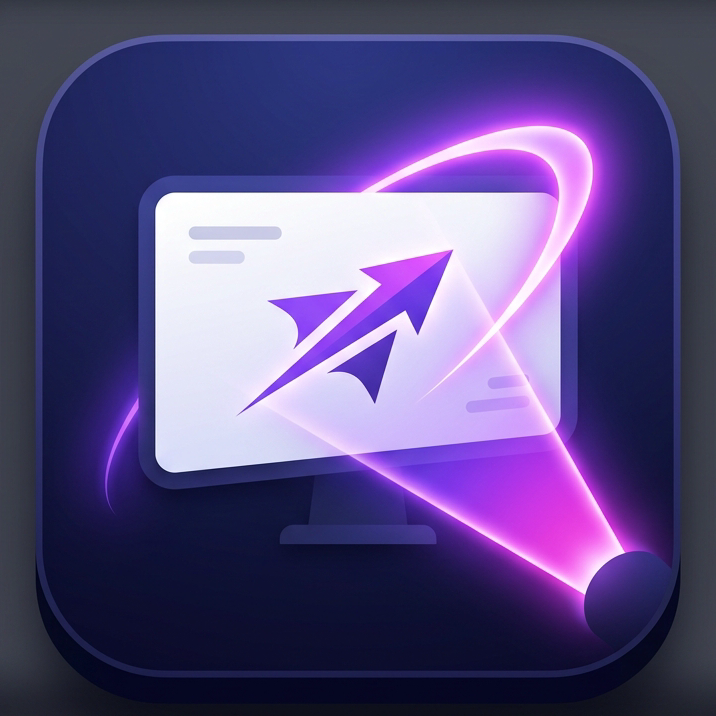
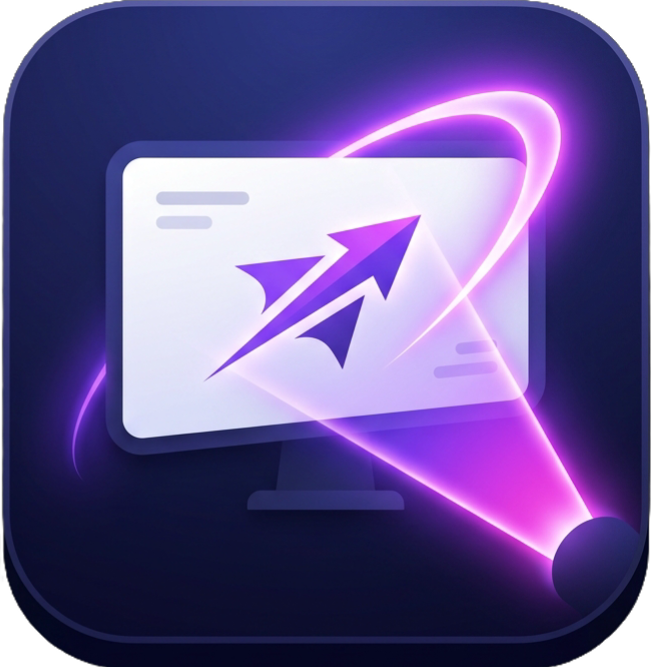
ui is improved

diff --git a/src/components/HomeScreen.tsx b/src/components/HomeScreen.tsx
@@ -154,7 +154,7 @@ export default function HomeScreen() {
       {/* Header */}
       <header className="border-b border-white/[0.06] px-8 py-4 flex items-center justify-between">
         <div className="flex items-center gap-3">
-          <img src="/icon.png" alt="ApexPresenter Logo" className="w-9 h-9 rounded-xl shadow-lg shadow-indigo-500/20" />
+          <img src="./icon.png" alt="ApexPresenter Logo" className="w-9 h-9 rounded-xl shadow-lg shadow-indigo-500/20" />
           <div>
             <h1 className="text-white font-bold text-lg leading-none">ApexPresenter</h1>
             <p className="text-white/40 text-xs mt-0.5">Remote Edition</p>
@@ -271,7 +271,7 @@ export default function HomeScreen() {
           {sessions.length === 0 && (
             <div className="mb-8 rounded-2xl bg-gradient-to-br from-indigo-600/20 via-violet-600/10 to-transparent border border-indigo-500/20 p-8">
               <div className="flex items-start gap-6">
-                <img src="/icon.png" alt="ApexPresenter Logo" className="w-16 h-16 rounded-2xl shadow-lg shadow-indigo-500/30 shrink-0" />
+                <img src="./icon.png" alt="ApexPresenter Logo" className="w-16 h-16 rounded-2xl shadow-lg shadow-indigo-500/30 shrink-0" />
                 <div>
                   <h2 className="text-white text-2xl font-bold mb-2">Welcome to ApexPresenter</h2>
                   <p className="text-white/60 text-sm leading-relaxed max-w-2xl">

diff --git a/index.html b/index.html
@@ -5,7 +5,7 @@
     <meta name="viewport" content="width=device-width, initial-scale=1.0" />
     <meta name="theme-color" content="#0f1117" />
     <title>ApexPresenter</title>
-    <link rel="icon" type="image/png" href="/icon.png" />
+    <link rel="icon" type="image/png" href="./icon.png" />
     <meta name="description" content="World-class PDF presentation tool for remote educators and trainers. Screen-share optimized with laser pointer, spotlight, live annotation, and media slides." />
     <style>
       html, body {

diff --git a/src/components/EditorView.tsx b/src/components/EditorView.tsx
@@ -254,7 +254,7 @@ export default function EditorView() {
       >
         {/* Logo */}
         <button onClick={() => setCurrentScreen('home')} className="flex items-center gap-2 hover:opacity-80 transition-opacity">
-          <img src="/icon.png" alt="ApexPresenter Logo" className="w-7 h-7 rounded-lg shadow-sm" />
+          <img src="./icon.png" alt="ApexPresenter Logo" className="w-7 h-7 rounded-lg shadow-sm" />
         </button>
 
         {/* Session Name */}

diff --git a/src/components/PreflightCheck.tsx b/src/components/PreflightCheck.tsx
@@ -65,7 +65,7 @@ export default function PreflightCheck() {
   const handleStartPresenting = () => {
     if (isSidePanelOpen) setIsSidePanelOpen(false);
     if (!document.fullscreenElement) {
-      document.documentElement.requestFullscreen().catch(() => {});
+      document.documentElement.requestFullscreen().catch(() => { });
     }
     setIsPresenting(true);
     setCurrentScreen('presenting');

diff --git a/src/components/SettingsPanel.tsx b/src/components/SettingsPanel.tsx
@@ -322,7 +322,7 @@ export default function SettingsPanel() {
         return (
           <div className="space-y-4">
             <div className="flex items-center gap-4">
-              <img src="/icon.png" alt="ApexPresenter Logo" className="w-16 h-16 rounded-2xl shadow-xl shadow-indigo-500/30" />
+              <img src="./icon.png" alt="ApexPresenter Logo" className="w-16 h-16 rounded-2xl shadow-xl shadow-indigo-500/30" />
               <div>
                 <h3 className="text-white text-xl font-bold">ApexPresenter</h3>
                 <p className="text-white/50 text-sm">Remote Edition — Version 1.0.0</p>